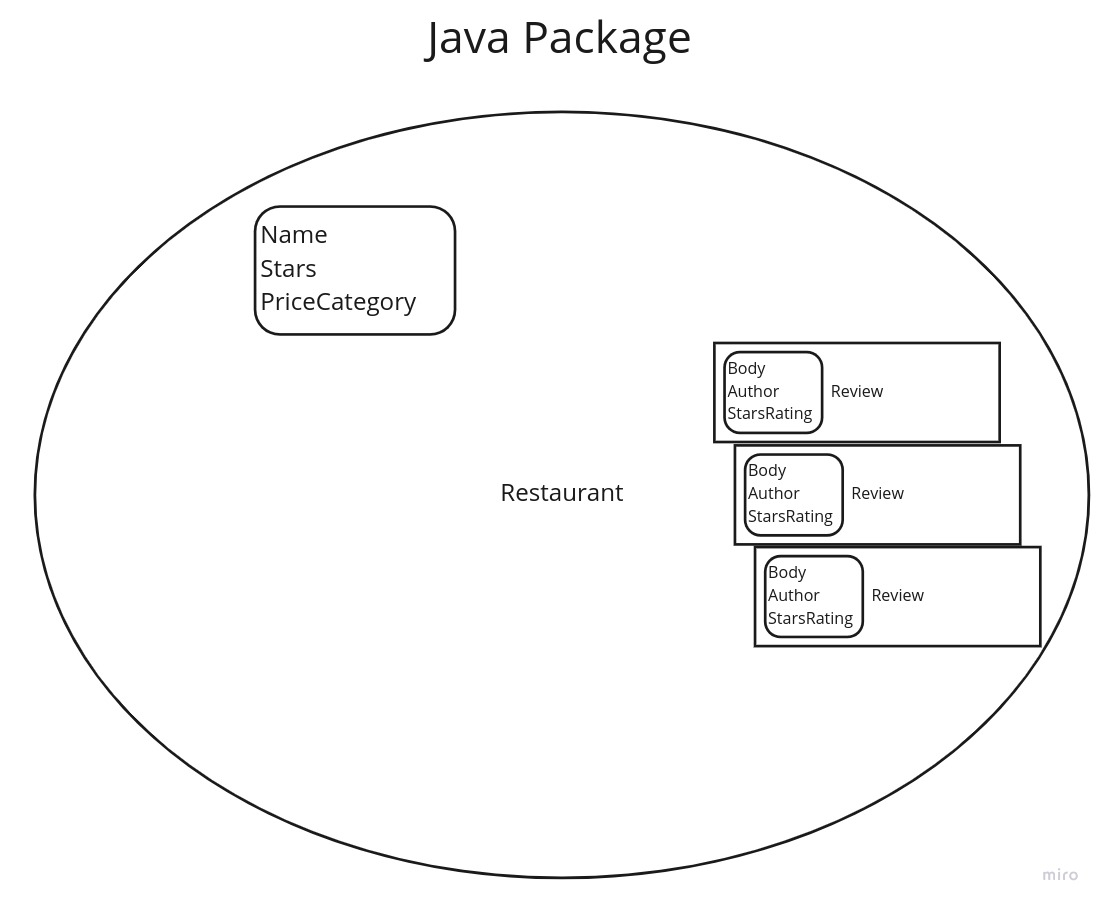
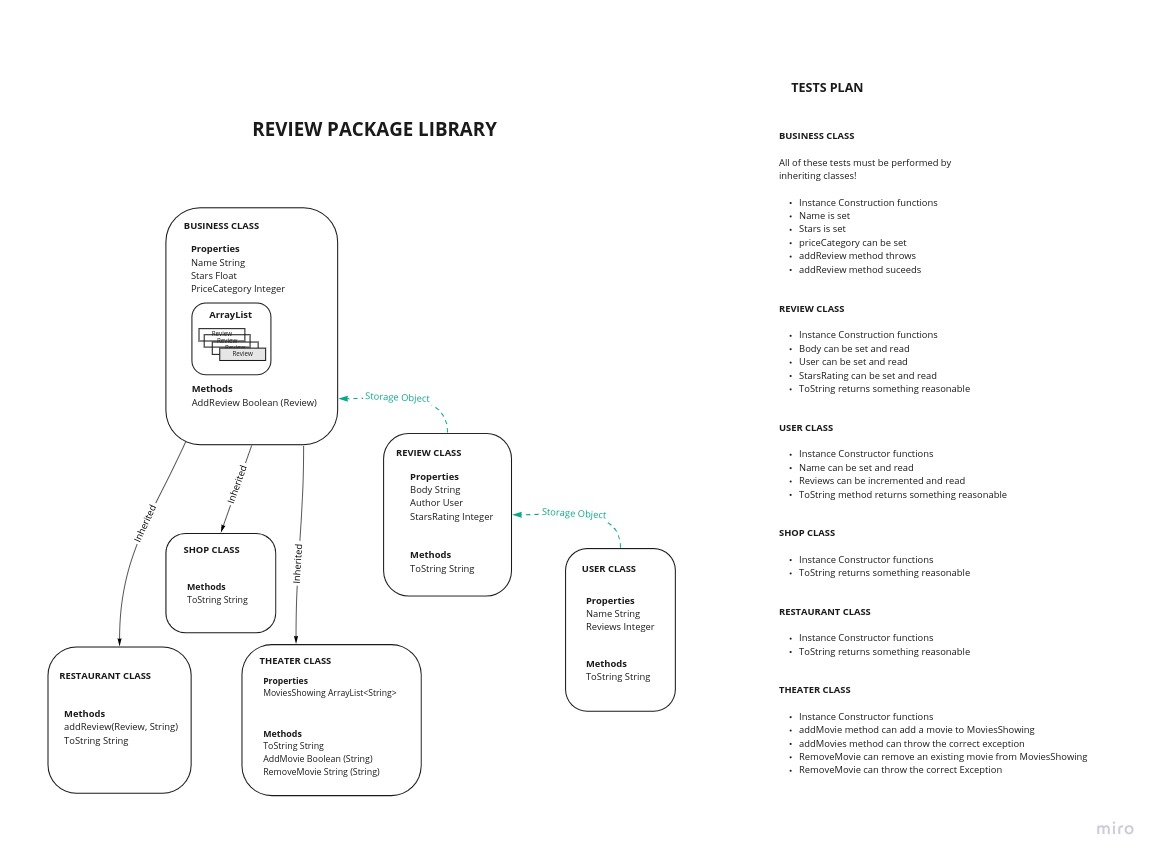
updated architecture document and readme.

diff --git a/inheritance/README.md b/inheritance/README.md
@@ -2,7 +2,60 @@
 
 ## Purpose and Overview
 
-## Feature Tasks and Status
+## Feature Tasks and Status - Tuesday
+
+[X] Start with Monday's Feature Tasks and Status.  
+[X] Create a SHOPS Class with name, description, and dollar-sign rating.  
+[X] Update the REVIEW Class to allow reviewing Shops like Restaurants.  
+[X] Create a THEATER Class so users can review Theaters and the movies they are showing.  
+[X] Implement addMovie() and removeMovie() methods in the THEATER Class.  
+[X] Refactor REVIEW Class to review Shops, Theaters, and Restaurants.  
+[X] Implement a method that reviewers can use to add the Name of the Movie along with their review, OR NOT.  
+[X] Implement Constructors, reasonable toString() methods, and basic tests for all of the above Classes.  
+
+### Stretch Goals
+
+[ ] Add an updateStars() method in the REVIEW Class to update stars for a specified review.  
+[ ] Ensure an updated Review is associated with all reviewable Classed things.  
+[ ] Refactor your code to make star tracking an instance METHOD instead of a PROPERTY.  
+[partial] Create a USER Class so it can be tracked which reviews were written by the same user.  
+[ ] Ensure a single user instance cannot submit multiple reviews for the same reviewable thing.  
+
+### Gradle Build and Test Status
+
+```shell
+λ  java-fundamentals/inheritance comp-inheritance-two ✗ gradle build
+
+BUILD SUCCESSFUL in 591ms
+4 actionable tasks: 2 executed, 2 up-to-date
+λ  java-fundamentals/inheritance comp-inheritance-two ✗ ./gradlew test
+
+BUILD SUCCESSFUL in 379ms
+3 actionable tasks: 3 up-to-date
+λ  java-fundamentals/inheritance comp-inheritance-two ✗ 
+```
+
+In Summary:
+
+> gradle build => PASS!
+
+> ./gradlew test => PASS!  
+
+#### Test Details
+
+See the Documentation Updates and Library Architecture for details list of tests.  
+
+*Note*: Only the most critical tests were actually build and are passing.  
+
+Existing tests are high-code-coverage tests.  
+
+See [The Test File](/lib/src/test/java/inheritance/LibraryTest.java) for details.  
+
+### Documentation Updates
+
+See [Library Architecture](#Library-Architecture) later in this doc for the latest design documentation.  
+
+## Feature Tasks and Status - Monday
 
 ### Restaurant Class
 
